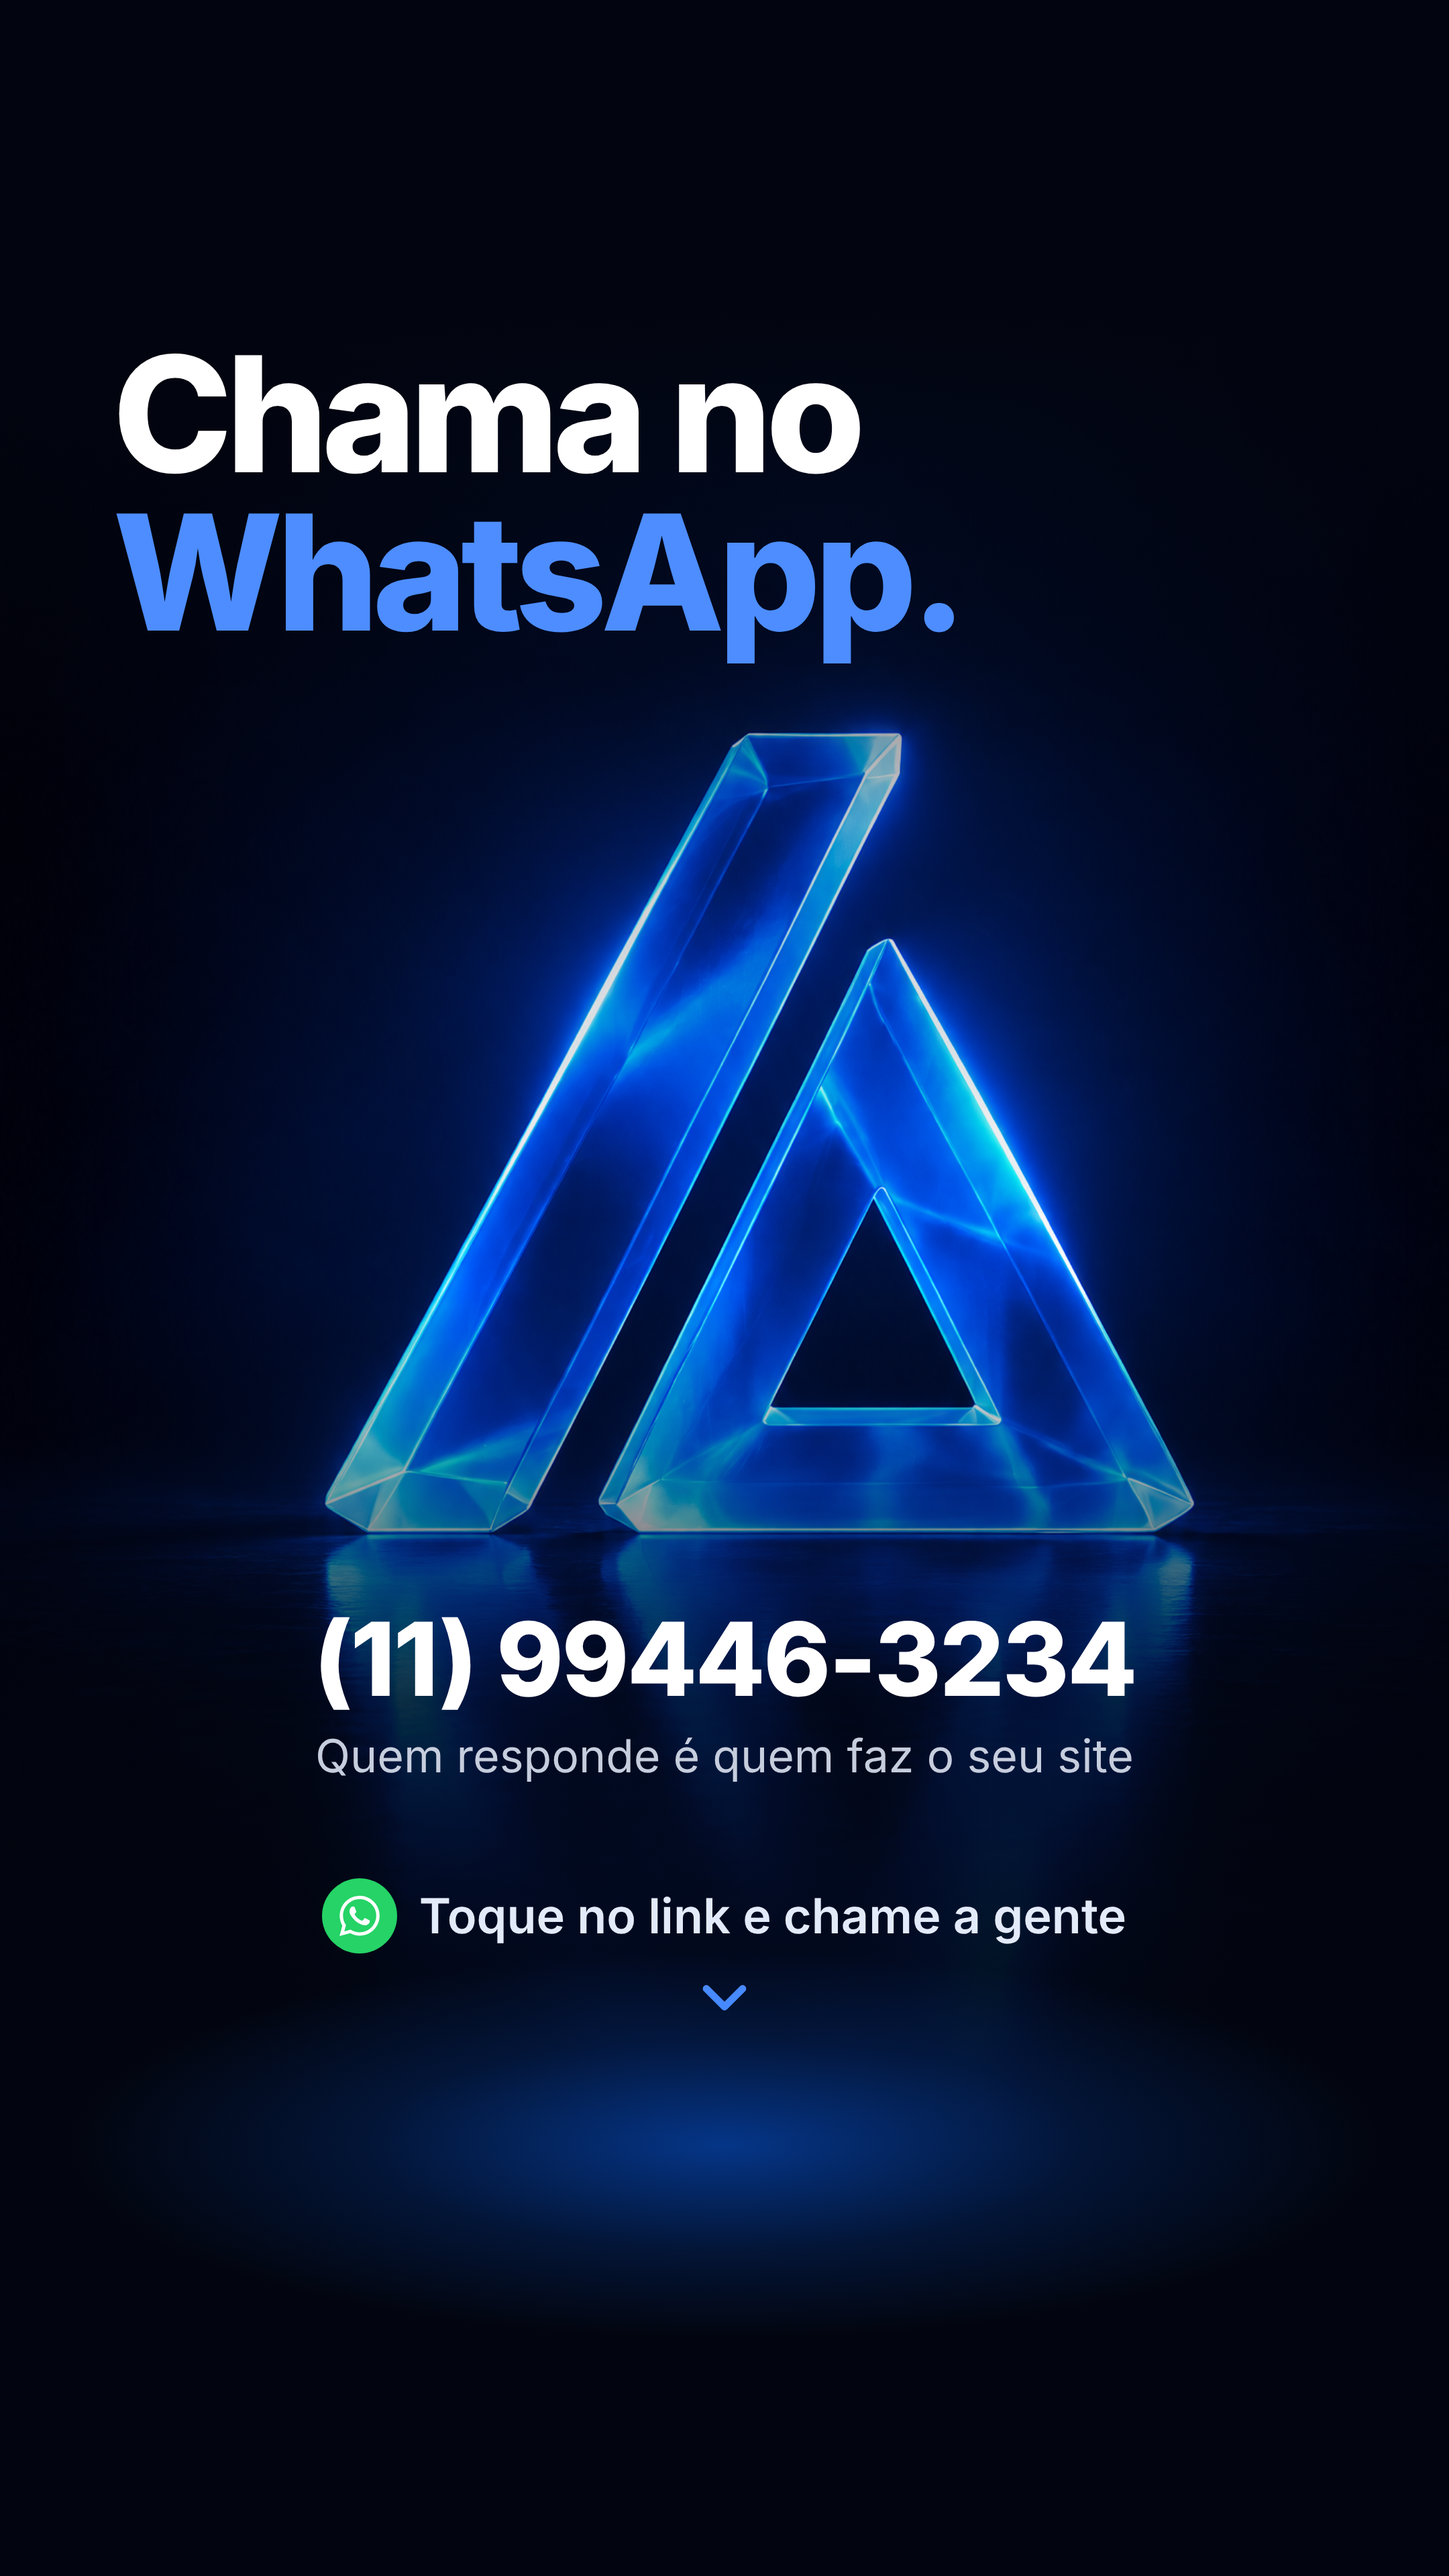
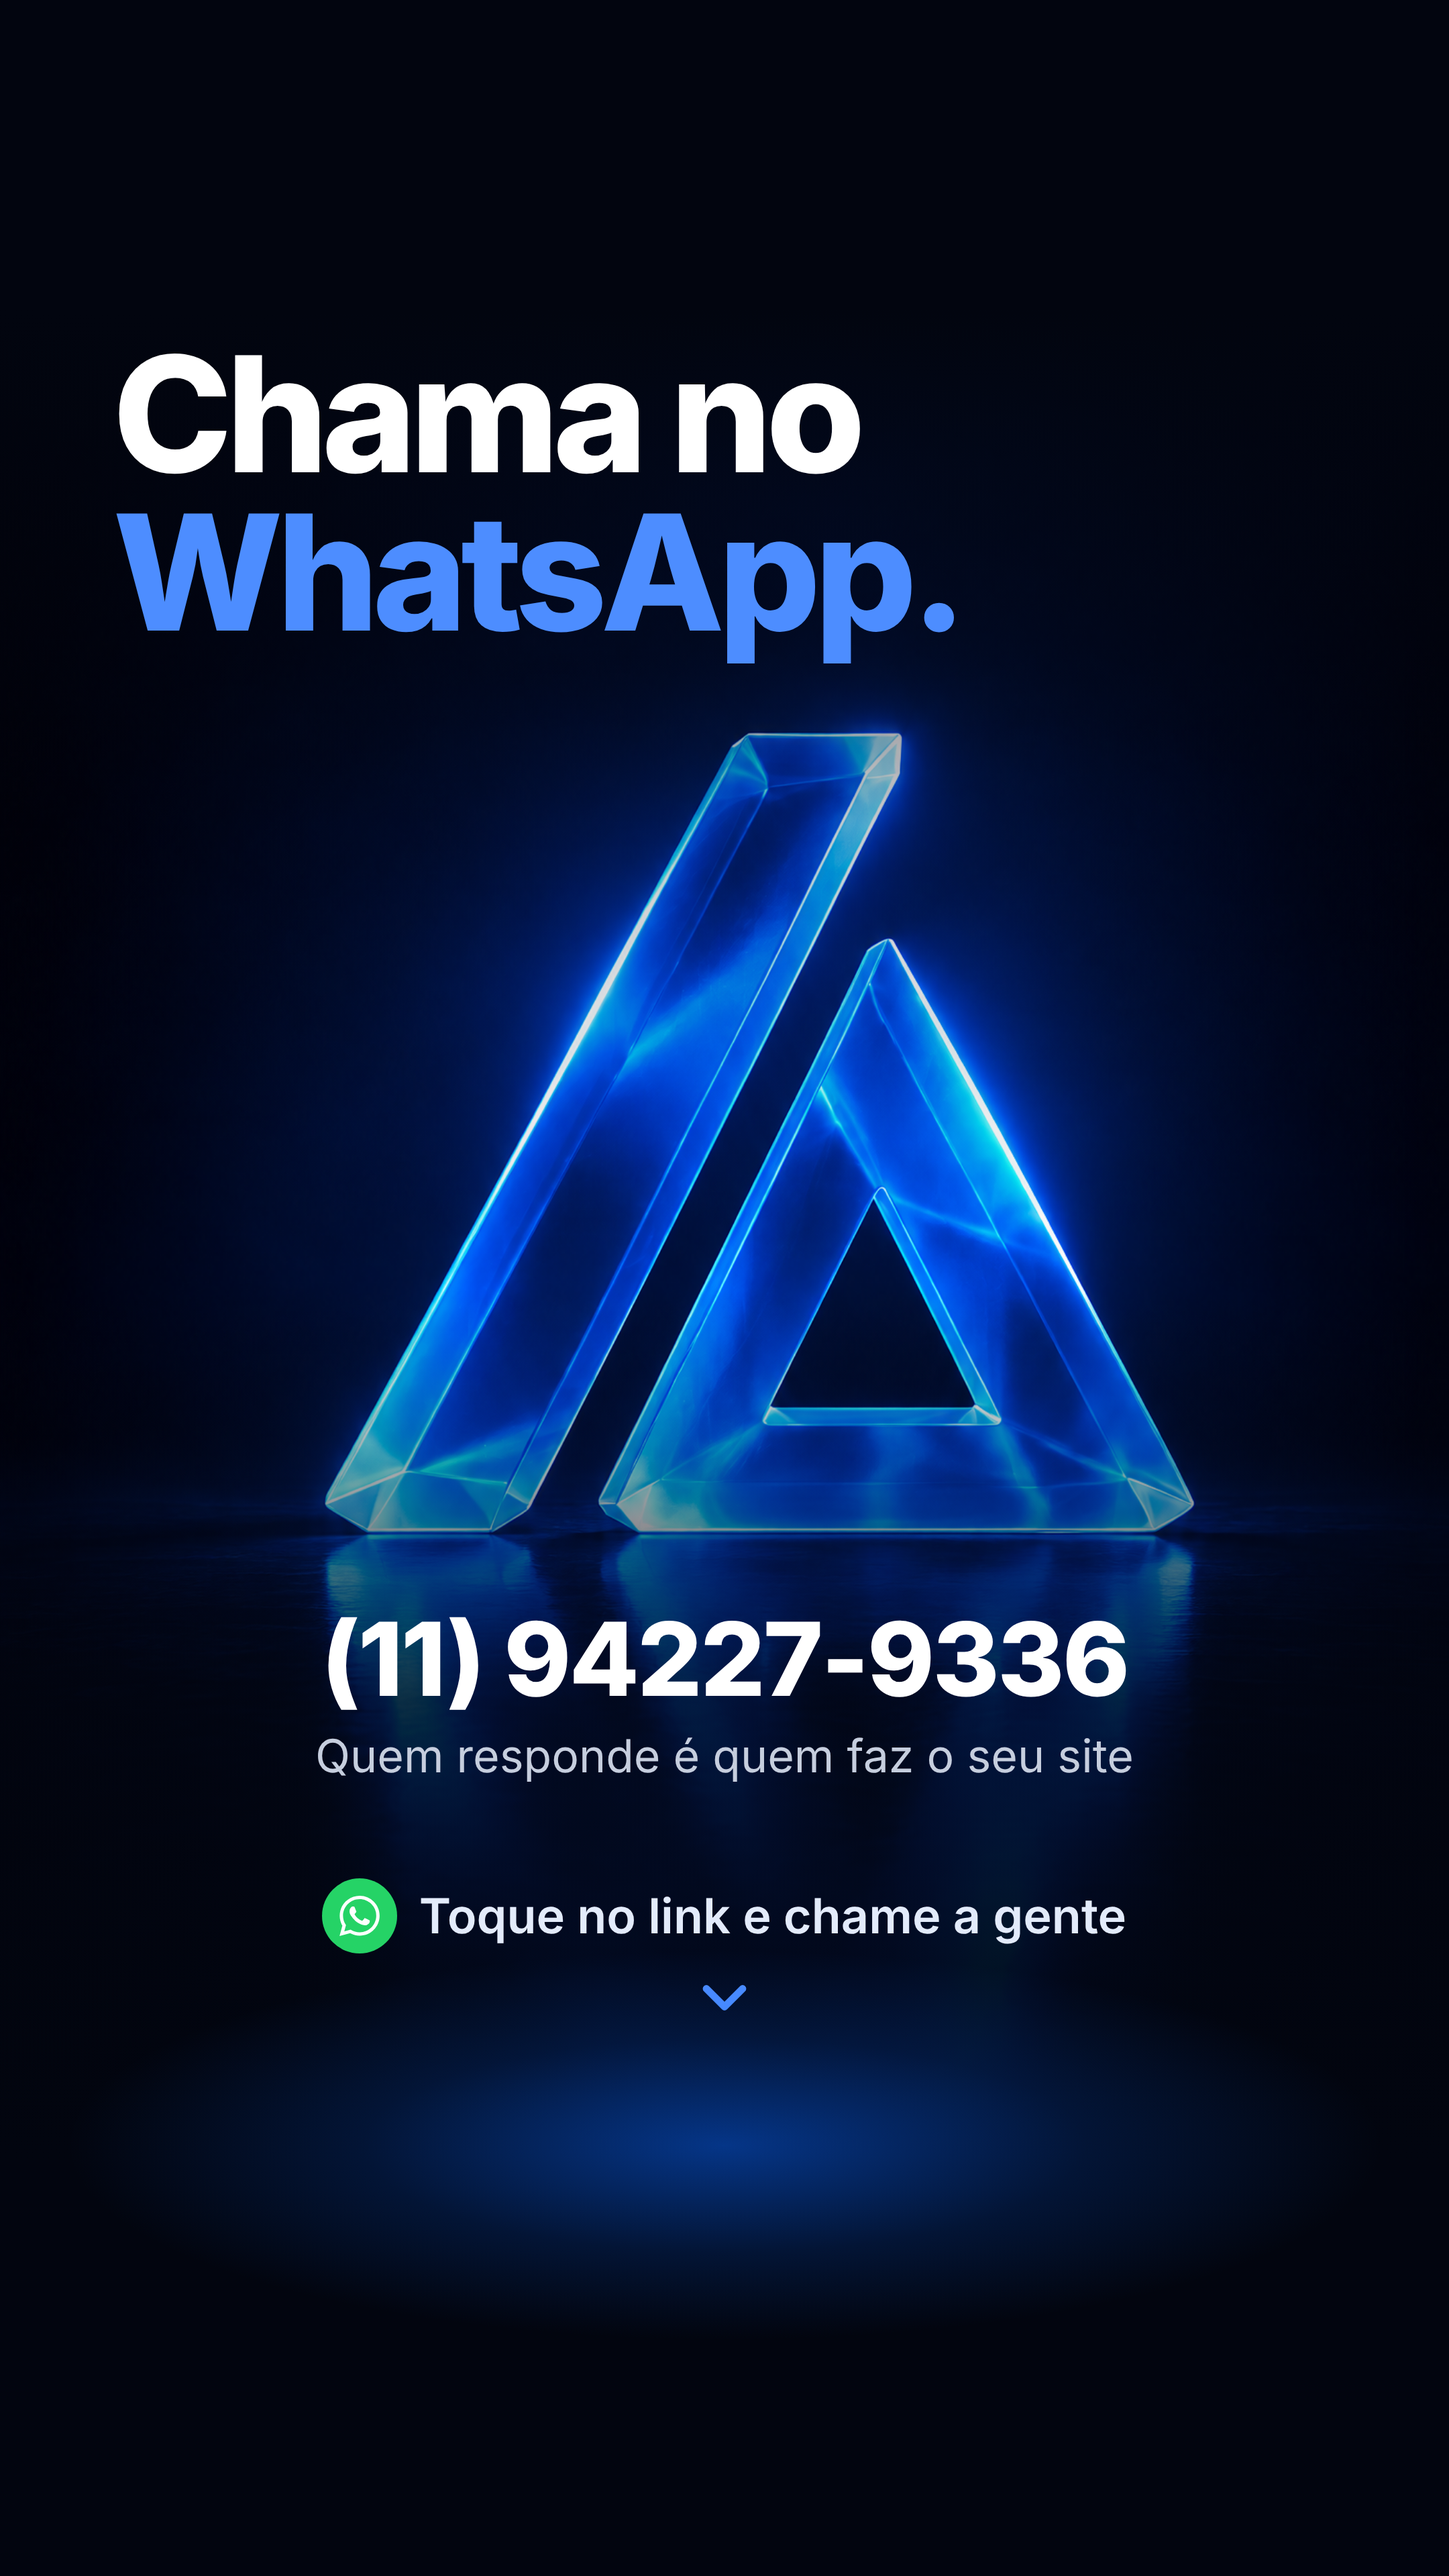
WhatsApp da Growlift passa a ser (11) 94227-9336
Site (botão do topo e rodapé), story Contato 01, perfil, destaques e
textos do WhatsApp Business.

Claude-Session: https://claude.ai/code/session_0144E8K5YaHTVDtLe8swm1ug

Changed region(s): [[0.2171, 0.625, 0.7755, 0.6562]]

diff --git a/growlift/index.html b/growlift/index.html
@@ -26,7 +26,7 @@
       <a href="#modelos">Modelos</a>
       <a href="#planos">Planos</a>
       <a href="#quem-somos">Quem somos</a>
-      <a class="btn btn-ghost btn-wa" href="https://wa.me/5511994463234?text=Ol%C3%A1!%20Vim%20pelo%20site%20da%20Growlift%20e%20tenho%20uma%20d%C3%BAvida." target="_blank" rel="noopener" aria-label="Tirar dúvidas no WhatsApp"><svg viewBox="0 0 24 24" aria-hidden="true"><path fill="currentColor" d="M12.04 2C6.58 2 2.13 6.45 2.13 11.91c0 1.75.46 3.45 1.32 4.95L2.05 22l5.25-1.38a9.86 9.86 0 0 0 4.74 1.21h.01c5.46 0 9.91-4.45 9.91-9.91 0-2.65-1.03-5.14-2.9-7.01A9.82 9.82 0 0 0 12.04 2zm0 18.15h-.01a8.2 8.2 0 0 1-4.19-1.15l-.3-.18-3.12.82.83-3.04-.2-.31a8.2 8.2 0 0 1-1.26-4.38c0-4.54 3.7-8.24 8.25-8.24 2.2 0 4.27.86 5.83 2.42a8.18 8.18 0 0 1 2.41 5.83c0 4.54-3.7 8.23-8.24 8.23zm4.52-6.16c-.25-.12-1.47-.72-1.69-.81-.23-.08-.39-.12-.56.12-.17.25-.64.81-.78.97-.14.17-.29.19-.54.06-.25-.12-1.05-.39-1.99-1.23-.74-.66-1.23-1.47-1.38-1.72-.14-.25-.02-.38.11-.51.11-.11.25-.29.37-.43.12-.14.17-.25.25-.41.08-.17.04-.31-.02-.43-.06-.12-.56-1.34-.76-1.84-.2-.48-.41-.42-.56-.43h-.48c-.17 0-.43.06-.66.31-.23.25-.86.85-.86 2.07 0 1.22.89 2.4 1.01 2.56.12.17 1.75 2.67 4.23 3.74.59.26 1.05.41 1.41.52.59.19 1.13.16 1.56.1.48-.07 1.47-.6 1.67-1.18.21-.58.21-1.07.14-1.18-.06-.11-.22-.17-.47-.29z"/></svg><span>WhatsApp</span></a>
+      <a class="btn btn-ghost btn-wa" href="https://wa.me/5511942279336?text=Ol%C3%A1!%20Vim%20pelo%20site%20da%20Growlift%20e%20tenho%20uma%20d%C3%BAvida." target="_blank" rel="noopener" aria-label="Tirar dúvidas no WhatsApp"><svg viewBox="0 0 24 24" aria-hidden="true"><path fill="currentColor" d="M12.04 2C6.58 2 2.13 6.45 2.13 11.91c0 1.75.46 3.45 1.32 4.95L2.05 22l5.25-1.38a9.86 9.86 0 0 0 4.74 1.21h.01c5.46 0 9.91-4.45 9.91-9.91 0-2.65-1.03-5.14-2.9-7.01A9.82 9.82 0 0 0 12.04 2zm0 18.15h-.01a8.2 8.2 0 0 1-4.19-1.15l-.3-.18-3.12.82.83-3.04-.2-.31a8.2 8.2 0 0 1-1.26-4.38c0-4.54 3.7-8.24 8.25-8.24 2.2 0 4.27.86 5.83 2.42a8.18 8.18 0 0 1 2.41 5.83c0 4.54-3.7 8.23-8.24 8.23zm4.52-6.16c-.25-.12-1.47-.72-1.69-.81-.23-.08-.39-.12-.56.12-.17.25-.64.81-.78.97-.14.17-.29.19-.54.06-.25-.12-1.05-.39-1.99-1.23-.74-.66-1.23-1.47-1.38-1.72-.14-.25-.02-.38.11-.51.11-.11.25-.29.37-.43.12-.14.17-.25.25-.41.08-.17.04-.31-.02-.43-.06-.12-.56-1.34-.76-1.84-.2-.48-.41-.42-.56-.43h-.48c-.17 0-.43.06-.66.31-.23.25-.86.85-.86 2.07 0 1.22.89 2.4 1.01 2.56.12.17 1.75 2.67 4.23 3.74.59.26 1.05.41 1.41.52.59.19 1.13.16 1.56.1.48-.07 1.47-.6 1.67-1.18.21-.58.21-1.07.14-1.18-.06-.11-.22-.17-.47-.29z"/></svg><span>WhatsApp</span></a>
       <a class="btn btn-primary" href="#diagnostico">Diagnóstico grátis</a>
     </nav>
   </div>
@@ -324,7 +324,7 @@
     <div>
       <h3>Contato</h3>
       <ul>
-        <li><a href="https://wa.me/5511994463234?text=Ol%C3%A1!%20Vim%20pelo%20site%20da%20Growlift%20e%20tenho%20uma%20d%C3%BAvida." target="_blank" rel="noopener">WhatsApp (11) 99446-3234</a></li>
+        <li><a href="https://wa.me/5511942279336?text=Ol%C3%A1!%20Vim%20pelo%20site%20da%20Growlift%20e%20tenho%20uma%20d%C3%BAvida." target="_blank" rel="noopener">WhatsApp (11) 94227-9336</a></li>
         <li><a href="mailto:contato@growlift.com.br">contato@growlift.com.br</a></li>
         <li><a href="https://instagram.com/growlift.ai" target="_blank" rel="noopener">@growlift.ai</a></li>
       </ul>

diff --git a/growlift-social/_fonte/html/03-destaques/6-contato/01.html b/growlift-social/_fonte/html/03-destaques/6-contato/01.html
@@ -43,7 +43,7 @@ body{background:#02050f}
       <h1 class="t-title" style="font-size:120px">Chama no <span class="blue">WhatsApp.</span></h1>
     </div>
     <div style="position:absolute;left:84px;right:84px;top:1190px;text-align:center">
-      <p style="font-size:76px;font-weight:800;letter-spacing:-.02em;color:#fff">(11) 99446-3234</p>
+      <p style="font-size:76px;font-weight:800;letter-spacing:-.02em;color:#fff">(11) 94227-9336</p>
       <p style="font-size:34px;color:#c6cede;margin-top:6px">Quem responde é quem faz o seu site</p>
     </div>
     

diff --git a/growlift-social/03-destaques/destaques.md b/growlift-social/03-destaques/destaques.md
@@ -20,7 +20,7 @@ Uma por destaque, em `capas/`: `1-projetos.png`, `2-servicos.png`, `6-contato.pn
 | --- | --- | --- | --- |
 | Projetos | 06 (o nosso próprio site, computador e celular) | `https://growlift.com.br` | Ver o site ao vivo |
 | Serviços | 06 (qual é o seu momento? os 3 planos) | `https://growlift.com.br/#planos` | Ver os planos |
-| Contato | 01 (chama no WhatsApp) | `https://wa.me/5511994463234` | Chamar no WhatsApp |
+| Contato | 01 (chama no WhatsApp) | `https://wa.me/5511942279336` | Chamar no WhatsApp |
 | Contato | 02 (diagnóstico grátis) | `https://growlift.com.br/#diagnostico` | Pedir diagnóstico grátis |
 
    Nas artes novas, o lugar do link já vem desenhado: uma frase "Toque no link…" com uma setinha e, embaixo, uma área de luz azul **sem texto**. Ponham o adesivo dentro dessa luz (o Instagram não deixa pôr o adesivo por cima de texto da imagem).
@@ -59,7 +59,7 @@ Tudo o que aparece está nos planos do site. Os exemplos estão marcados como ex
 
 | Arquivo | O que mostra |
 | --- | --- |
-| 01 | "Chama no WhatsApp.", a marca de vidro, o número (11) 99446-3234 e o botão **Chamar no WhatsApp**. Sem fotos de pessoas nos destaques (decisão de 26/10/2026) |
+| 01 | "Chama no WhatsApp.", a marca de vidro, o número (11) 94227-9336 e o botão **Chamar no WhatsApp**. Sem fotos de pessoas nos destaques (decisão de 26/10/2026) |
 | 02 | Diagnóstico grátis em 3 passos (conte sobre o negócio, receba a prévia em até 2 dias úteis, decida com calma), com o botão **Pedir diagnóstico grátis** |
 
 ## Editar

diff --git a/growlift-social/06-whatsapp-business/whatsapp-business.md b/growlift-social/06-whatsapp-business/whatsapp-business.md
@@ -1,6 +1,6 @@
 # WhatsApp Business
 
-Nada foi configurado. O número comercial é o (11) 99446-3234; o botão do site já abre a conversa nele.
+Nada foi configurado. O número comercial é o (11) 94227-9336; o botão do site já abre a conversa nele.
 
 ## Perfil comercial
 
@@ -10,7 +10,7 @@ Nada foi configurado. O número comercial é o (11) 99446-3234; o botão do site
 | Categoria | Agência de marketing. Se não existir na lista, a mais próxima, como "Serviços profissionais". |
 | Descrição | Texto abaixo |
 | Recado | `Sites e soluções digitais para negócios locais.` (47 de 139 caracteres) |
-| Telefone | (11) 99446-3234 |
+| Telefone | (11) 94227-9336 |
 | E-mail | contato@growlift.com.br |
 | Site | https://growlift.com.br (quando o domínio estiver no ar) |
 | Horário | Sempre aberto (com a mensagem automática abaixo) |

diff --git a/growlift-social/README.md b/growlift-social/README.md
@@ -31,7 +31,7 @@ O painel lê esta pasta toda vez que é publicado. Para entrar uma peça nova, b
 1. **Clientes:** o destaque só entra com o primeiro cliente real, com depoimento autorizado por escrito.
 
 **Já decidido:**
-- WhatsApp comercial: (11) 99446-3234 (botão no topo do site e story de contato).
+- WhatsApp comercial: (11) 94227-9336 (botão no topo do site e story de contato).
 - Fidelidade: 6 meses no Start e no Grow, 4 meses no Lift.
 - Site no ar em https://growlift.com.br (desde 26/10/2026): link da bio e posts liberados.
 - Instagram **@growlift.ai**.

diff --git a/growlift-social/02-instagram-perfil/perfil.md b/growlift-social/02-instagram-perfil/perfil.md
@@ -39,7 +39,7 @@ O nome aparece na busca do Instagram, então "Sites" ajuda quem procura por isso
 | Botão | Valor |
 | --- | --- |
 | E-mail | contato@growlift.com.br |
-| WhatsApp | (11) 99446-3234 |
+| WhatsApp | (11) 94227-9336 |
 | Endereço | Não exibir. Só faz sentido se houver um ponto comercial aberto ao público. |
 
 ## Foto de perfil
